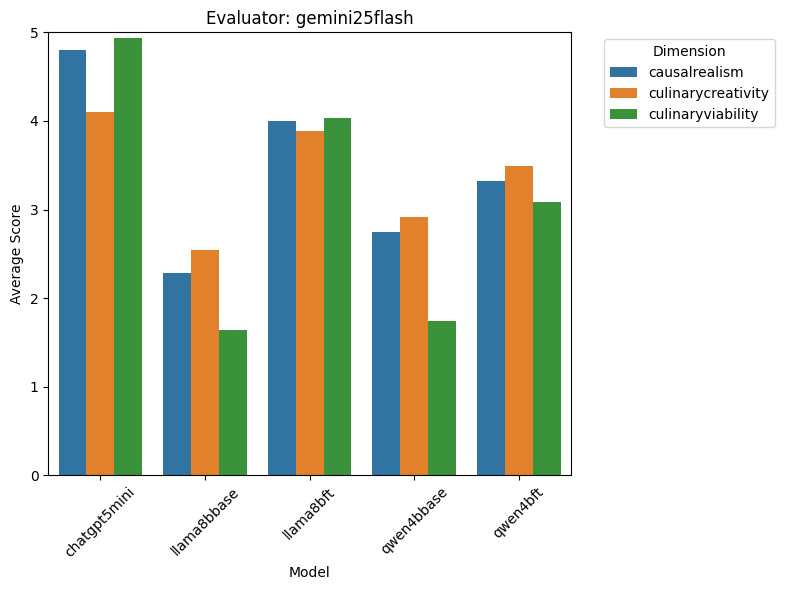
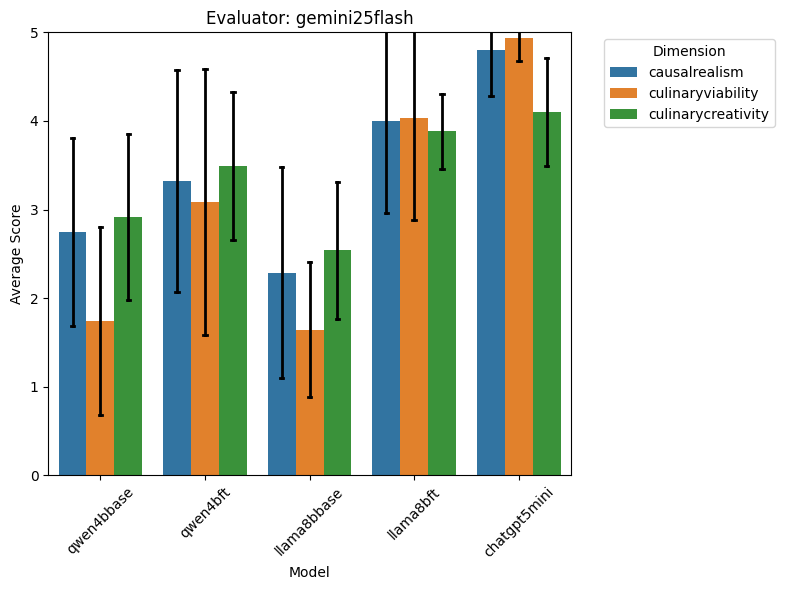
Updated with Cohen's Kappa metrics, Graph Errorbars (stdev) and other minor changes

diff --git a/src/evaluation/analysis.py b/src/evaluation/analysis.py
@@ -133,8 +133,19 @@ def basic_heuristic_scores_display(granular_df: pd.DataFrame):
         # Group and calculate mean
         mean_scores = subset.groupby(["id", "dimension"])["value"].mean().reset_index()
 
+        breakpoint()
+
         # Create clustered bar plot
-        sns.barplot(data=mean_scores, x="id", y="value", hue="dimension", ax=ax)
+        sns.barplot(
+            data=subset,
+            x="id",
+            y="value",
+            hue="dimension",
+            ax=ax,
+            errorbar="sd",
+            capsize=0.1,
+            err_kws={"color": "black", "linewidth": 2},
+        )
 
         ax.set_title(f"Evaluator: {evaluator}")
         ax.set_ylim(0, 5)
@@ -144,6 +155,7 @@ def basic_heuristic_scores_display(granular_df: pd.DataFrame):
         ax.legend(title="Dimension", bbox_to_anchor=(1.05, 1), loc="upper left")
 
         fig.tight_layout()
+
         plots[f"heuristic_basicdisplay_{evaluator}"] = fig
 
     return plots
@@ -296,7 +308,7 @@ def graphing_pipeline(cfg: DictConfig, df):
     logger.info("Graphing pipeline completed successfully.")
 
 
-def perform_analysis(cfg: DictConfig, granular_df: pd.DataFrame):
+def perform_adhoc_analysis(cfg: DictConfig, granular_df: pd.DataFrame):
     analysis_cfg = cfg.analysis
 
     df = granular_df.loc[
@@ -305,29 +317,60 @@ def perform_analysis(cfg: DictConfig, granular_df: pd.DataFrame):
         & (~(granular_df["value"].isin([0, -1]))),
     ].copy()  # Using .copy() to avoid SettingWithCopyWarning
 
-    conditions = [
-        df["id"].isin(["qwen4bft", "llama8bft"]),
-        df["id"].isin(["qwen4bbase", "llama8bbase"]),
-    ]
-    choices = ["finetuned", "base"]
-    df["model_status"] = np.select(conditions, choices, default="teacher")
+    pivot_df = df.pivot_table(
+        index=["id", "cuisine_a", "cuisine_b", "dimension"],
+        columns="evaluator_model",
+        values="value",
+    ).dropna()
 
-    example_eval_df = (
-        df.drop(columns=["inference_key"])
-        .pivot(
-            index=["id", "cuisine_a", "cuisine_b"],
-            columns=["evaluator_model", "dimension"],
-            values="value",
-        )
-        .reset_index()
+    chatgpt_scores = pivot_df["gpt5mini"]
+    gemini_scores = pivot_df["gemini25flash"]
+
+    kappa_org = cohen_kappa_score(chatgpt_scores, gemini_scores, weights="linear")
+
+    chatgpt_modified = pivot_df["gpt5mini"].replace({1.0: 2.0, 5.0: 4.0})
+    gemini_modified = pivot_df["gemini25flash"].replace({1.0: 2.0, 5.0: 4.0})
+
+    kappa_modified = cohen_kappa_score(
+        chatgpt_modified, gemini_modified, weights="linear"
     )
-    breakpoint()
 
-    finetuning_impact_df = (
-        df.groupby(["id", "model_status", "evaluator_model"])["value"]
-        .mean()
-        .reset_index()
+    logger.info(f"Cohen's Kappa (Original Scores): {kappa_org:.4f}")
+    logger.info(f"Cohen's Kappa (Modified Scores): {kappa_modified:.4f}")
+
+    diff_scores = (chatgpt_scores - gemini_scores).value_counts()
+    diff_scores_modified = (chatgpt_modified - gemini_modified).value_counts()
+
+    logger.info(
+        f"Score differences summary (Original):\n{diff_scores / diff_scores.sum()}"
     )
     logger.info(
-        f"Heuristic summary scores for evaluated models\n{finetuning_impact_df}"
+        f"Score differences summary (Modified):\n{diff_scores_modified / diff_scores_modified.sum()}"
     )
+
+    # conditions = [
+    #     df["id"].isin(["qwen4bft", "llama8bft"]),
+    #     df["id"].isin(["qwen4bbase", "llama8bbase"]),
+    # ]
+    # choices = ["finetuned", "base"]
+    # df["model_status"] = np.select(conditions, choices, default="teacher")
+
+    # example_eval_df = (
+    #     df.drop(columns=["inference_key"])
+    #     .pivot(
+    #         index=["id", "cuisine_a", "cuisine_b"],
+    #         columns=["evaluator_model", "dimension"],
+    #         values="value",
+    #     )
+    #     .reset_index()
+    # )
+    # breakpoint()
+
+    # finetuning_impact_df = (
+    #     df.groupby(["id", "model_status", "evaluator_model"])["value"]
+    #     .mean()
+    #     .reset_index()
+    # )
+    # logger.info(
+    #     f"Heuristic summary scores for evaluated models\n{finetuning_impact_df}"
+    # )

diff --git a/main_evaluate.py b/main_evaluate.py
@@ -19,7 +19,7 @@ from src.evaluation.deterministic_evaluation import extract_deterministic_evalua
 from src.evaluation.analysis import (
     form_granular_df,
     graphing_pipeline,
-    perform_analysis,
+    perform_adhoc_analysis,
 )
 from src.utils.utils import save_to_jsonl, load_from_jsonl
 from src.utils.types import EvaluationKey, RecipeFusionInferenceKey
@@ -209,9 +209,10 @@ def eval_step_analysis(cfg: DictConfig):
 
     df.to_csv(output_filepath)
 
-    # graphing_pipeline(eval_cfg, df)
+    if eval_cfg.analysis.run_graphing_pipeline:
+        graphing_pipeline(eval_cfg, df)
 
-    perform_analysis(eval_cfg, df)
+    perform_adhoc_analysis(eval_cfg, df)
     logger.info("Completed step: analysis")
 
 

diff --git a/README.md b/README.md
@@ -40,16 +40,16 @@ All evaluation presented here was done on test data only.
 </table>
 
 > **Analysis:** The graphs above show the scores provided by 2 LLM-as-a-judge models Chat GPT 5 Mini (gpt5mini) and Gemini 2.5 Flash(gemini25flash) on the 3 heuristic evaluation criteria. 3 Baseline models and 2 finetuned models are evaluated on a scale of 1 (fail) to 5 (success). We can make several observations
-1. The general standing of models is Llama8bBase (2.4) < Qwen4bBase (2.6) < Qwen4bFinetuned (3.2) < Llama8bFinetuned (3.7) < ChatGPT5Mini (4.2)
-2. Finetuning generally improves average fusion quality, with the Qwen 4b models enjoying a 0.6 point improvement, and the Llama 8b models enjoying a much larger 1.3 point improvement. However the teacher model scores the highest, leading the best finetuned model by 0.5 points.
-3. Interestingly, the base version of Llama 8b performed worse than the base version of Qwen 4b (Check Why?). However, this difference was small, at 0.3. Finetuning seems to offer greater performance benefits to the larger model - which is expected.
-4. Culinary creativity was generally scored higher than Viability or Realism (Chat GPT 5 Mini as evaluator), while there is no clear pattern with Gemini 2.5 Flash as the evaluator. This may suggest a characteristic of the evaluation dimension (easier to make creative combinations, but tougher to get the quantities/physics right) or the evaluator models' interpretation of the prompts.
-5. Comparing evaluators - Gemini 2.5 Flash scores Llama8bFinetuned more favourably (~ 0.5), Llama8bBase less favourably (~ 0.4), and Qwen4bBase less favourably (~ 0.3) compared to ChatGPT 5 Mini. Both models evaluate Qwen4bFinetuned similarly (about 0.1 difference). Interestingly Gemini 2.5 Flash rated the synthetic data generated by the teacher model much more faourably (~ 0.7) than ChatGPT 5 Mini (which was used to create the synthetic data, and was also one of the evaluators).
+> 1. The general standing of models is Llama8bBase (2.4) < Qwen4bBase (2.6) < Qwen4bFinetuned (3.2) < Llama8bFinetuned (3.7) < ChatGPT5Mini (4.2)
+> 2. Finetuning generally improves average fusion quality, with the Qwen 4b models enjoying a 0.6 point improvement, and the Llama 8b models enjoying a much larger 1.3 point improvement. However the teacher model scores the highest, leading the best finetuned model by 0.5 points.
+> 3. Interestingly, the base version of Llama 8b performed worse than the base version of Qwen 4b (Check Why?). However, this difference was small, at 0.3. Finetuning seems to offer greater performance benefits to the larger model - which is expected.
+> 4. Culinary creativity was generally scored higher than Viability or Realism (Chat GPT 5 Mini as evaluator), while there is no clear pattern with Gemini 2.5 Flash as the evaluator. This may suggest a characteristic of the evaluation dimension (easier to make creative combinations, but tougher to get the quantities/physics right) or the evaluator models' interpretation of the prompts.
+> 5. Comparing evaluators - Gemini 2.5 Flash scores Llama8bFinetuned more favourably (~ 0.5), Llama8bBase less favourably (~ 0.4), and Qwen4bBase less favourably (~ 0.3) compared to ChatGPT 5 Mini. Both models evaluate Qwen4bFinetuned similarly (about 0.1 difference). Interestingly Gemini 2.5 Flash rated the synthetic data generated by the teacher model much more faourably (~ 0.7) than ChatGPT 5 Mini (which was used to create the synthetic data, and was also one of the evaluators).
 
 
 ### 2. Inter Annotator Agreement
 ![Plot3](assets/heuristic_scores_correlation.png)
-> **Analysis:** Comparing evaluators, we see a general agreement on the scores given (across all dimensions) for each test example. However, the more standard Cohen's Kappa Inter Annotator Agreement measure (which also accounts for accidental random agreement) shows a generally low agreement metric (). Observing the heatmap, this is probably due to ChatGPT generally avoiding extreme scores (1 or 5) while Gemini's scores are more diffuse. These fringe differences (156 counts scored 4 by ChatGPT but 5 by Gemini, 74 counts scored 2 by ChatGPT but 1 by Gemini) can contribute to the reduction in the Cohen's Kappa.  
+> **Analysis:** Comparing evaluators, we see a general agreement on the scores given (across all dimensions) for each test example (with over 85% of the two evaluators' scores being within $\pm$ 1). However, the more standard Cohen's Kappa Inter Annotator Agreement measure (which also accounts for accidental random agreement) shows a generally low agreement metric (0.37 when weighted linearly). Observing the heatmap, this is probably due to ChatGPT generally avoiding extreme scores (1 or 5) while Gemini's scores are more diffuse. These fringe differences (156 counts scored 4 by ChatGPT but 5 by Gemini, 74 counts scored 2 by ChatGPT but 1 by Gemini) contribute partially to the reduction in the Cohen's Kappa. On "collapsing" scores 1 and 5 (shifting all scores to 2, 4 respectively) the metric value jumps to 0.51 (moderate agreement)
 
 ### 3. Granular impact of finetuning on each cuisine
 ![Plot4](assets/heuristic_cuisines_finetuning_impact.png)
@@ -64,8 +64,6 @@ All evaluation presented here was done on test data only.
 ## Other points to mention
 - Why choose instruction tuned models over actual pretrained models?
   Pretrained models are simple next token prediction models and do not necessarily "follow instructions". Since we wanted to have a fair evaluation (comparing finetuned models to their base and the teacher model), we wanted to use models that could perform the required task given a suitable prompt. Thus the instruction tuned versions of these models were used.
-- Inter Annotator Agreement
-  The Inter Annotator Agreement between the two evaluator models is relatively low (at TODO). This could hint at ambiguous evaluation criteria / rubric or genuine evaluator differences. One striking difference between the evaluators can be seen near the extreme scores (poor (1) / excellent (5)). Chat GPT rarely scores outputs as either a 1 or a 5, but Gemini's scores are more diffuse.
 ---
 
 
@@ -76,7 +74,7 @@ All evaluation presented here was done on test data only.
   3) We have deployed the finetuned models on AWS Sagemaker (through an Asynchronous Inference endpoint), as well as an app to view model generated outputs for custom inputs.
   4) Code for the complete pipeline present in this repository.
 *   **Challenges:** 
-  1) Inference usually takes ~5 minutes per example (~5000 tokens) on a single A10 GPU (since the models output the two base-cuisine recipes and then the fusion recipe). These requests would time out on AWS Sagemaker hosted instances running the DJL (Deep Java Library) inference engine. I wasn't able to find any official solution for this, but a hack discovered while browsing through the opensource implementation was to tweak an environment variable (TODO).
+  1) Inference usually takes ~5 minutes per example (~5000 tokens) on a single A10 GPU (since the models output the two base-cuisine recipes and then the fusion recipe). These requests would time out on AWS Sagemaker hosted instances running the DJL (Deep Java Library) inference engine. I wasn't able to find any official solution for this, but a hack discovered while browsing through the opensource implementation was to tweak an undocumented environment variable. For the app, I switched to using the Modal Inference Platform, with an L4 GPU serving the models.
   2) The Synthetic Data generated has some issues. When prompted, the teacher model usually chooses the same base recipes (Ceviche for Peruvian cuisine, Jollof Rice for West African, BUtter Chicken for Indian etc.). This is perhaps because of the prompt to use 'iconic' recipes from the cuisines. This may cause a partial leakage of information into the test set.
 *   **Next Steps:** 
   1) A new mode of recipe fusion  - To address Challenge #2 we can rerun the pipeline using a new mode of recipe fusion (where not only the original cuisines, but also their dishes are provided to the model). This mode would put a greater emphasis on the techniques of fusion rather than allowing the model to use safe / standard choices.
@@ -94,6 +92,7 @@ All evaluation presented here was done on test data only.
 *   `src/`: Functions used by the main_* scripts.
 *   `tests/`: Testing for scripts.
 *   `assets/`: PNG files of generated plots.
+*   `app-frontend/`: Frontend app coded in React + Typescript. Some scripts used in deployment (AWS lambda scripts, Modal deployment script) are placed in `src/deployment`
 
 ---
 
@@ -105,6 +104,7 @@ At a more granular level:
 2) Data and ML Ops - Designed the synthetic data generation pipeline, conducted training experiments across Kaggle, Vast.ai and investigated API endpoints (eventually settling on Asynchronous Inference on AWS Sagemaker). AI again assisted with code, and requested iterations / refinements.
 3) Evaluation - Created a standardized evaluation framework and consolidated a multi-dimensional heuristic evaluation component. AI helped flesh out the LLM-as-a-judge prompts.
 4) Productionization - Restructured all experimental PoC scripts into a verified production ready pipeline. AI assisted in restructuring the code.
+5) App - AI helped significantly with generating the frontend, modal deployment script, lambda functions, cloudflar turnstile integration etc. based on my design.
 
 
 
